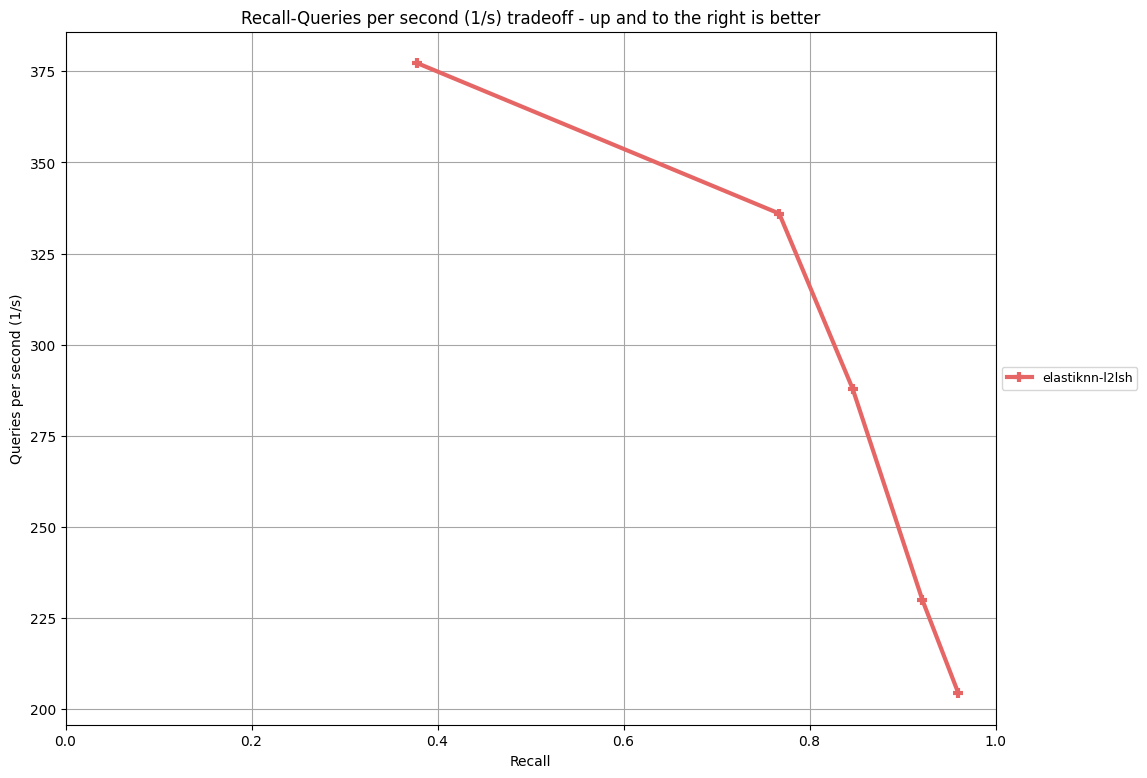
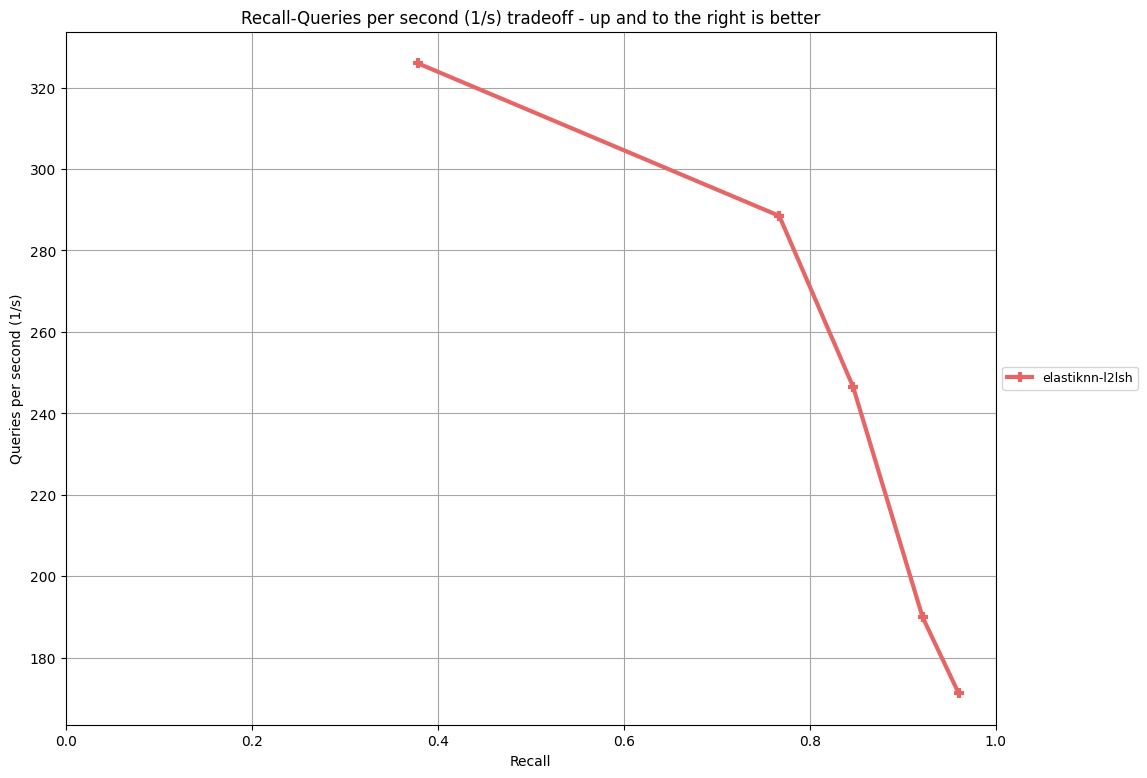
Benchmark

diff --git a/docs/pages/performance/fashion-mnist/results.md b/docs/pages/performance/fashion-mnist/results.md
@@ -1,10 +1,10 @@
 |Model|Parameters|Recall|Queries per Second|
 |---|---|---|---|
-|eknn-l2lsh|L=100 k=4 w=1024 candidates=500 probes=0|0.378|377.213|
-|eknn-l2lsh|L=100 k=4 w=1024 candidates=1000 probes=0|0.447|320.000|
-|eknn-l2lsh|L=100 k=4 w=1024 candidates=500 probes=3|0.635|302.384|
-|eknn-l2lsh|L=100 k=4 w=1024 candidates=1000 probes=3|0.717|259.201|
-|eknn-l2lsh|L=100 k=4 w=2048 candidates=500 probes=0|0.767|335.978|
-|eknn-l2lsh|L=100 k=4 w=2048 candidates=1000 probes=0|0.846|287.923|
-|eknn-l2lsh|L=100 k=4 w=2048 candidates=500 probes=3|0.921|229.917|
-|eknn-l2lsh|L=100 k=4 w=2048 candidates=1000 probes=3|0.960|204.375|
+|eknn-l2lsh|L=100 k=4 w=1024 candidates=500 probes=0|0.378|325.965|
+|eknn-l2lsh|L=100 k=4 w=1024 candidates=1000 probes=0|0.447|278.235|
+|eknn-l2lsh|L=100 k=4 w=1024 candidates=500 probes=3|0.634|257.070|
+|eknn-l2lsh|L=100 k=4 w=1024 candidates=1000 probes=3|0.716|221.075|
+|eknn-l2lsh|L=100 k=4 w=2048 candidates=500 probes=0|0.767|288.495|
+|eknn-l2lsh|L=100 k=4 w=2048 candidates=1000 probes=0|0.847|246.580|
+|eknn-l2lsh|L=100 k=4 w=2048 candidates=500 probes=3|0.921|189.978|
+|eknn-l2lsh|L=100 k=4 w=2048 candidates=1000 probes=3|0.960|171.315|
